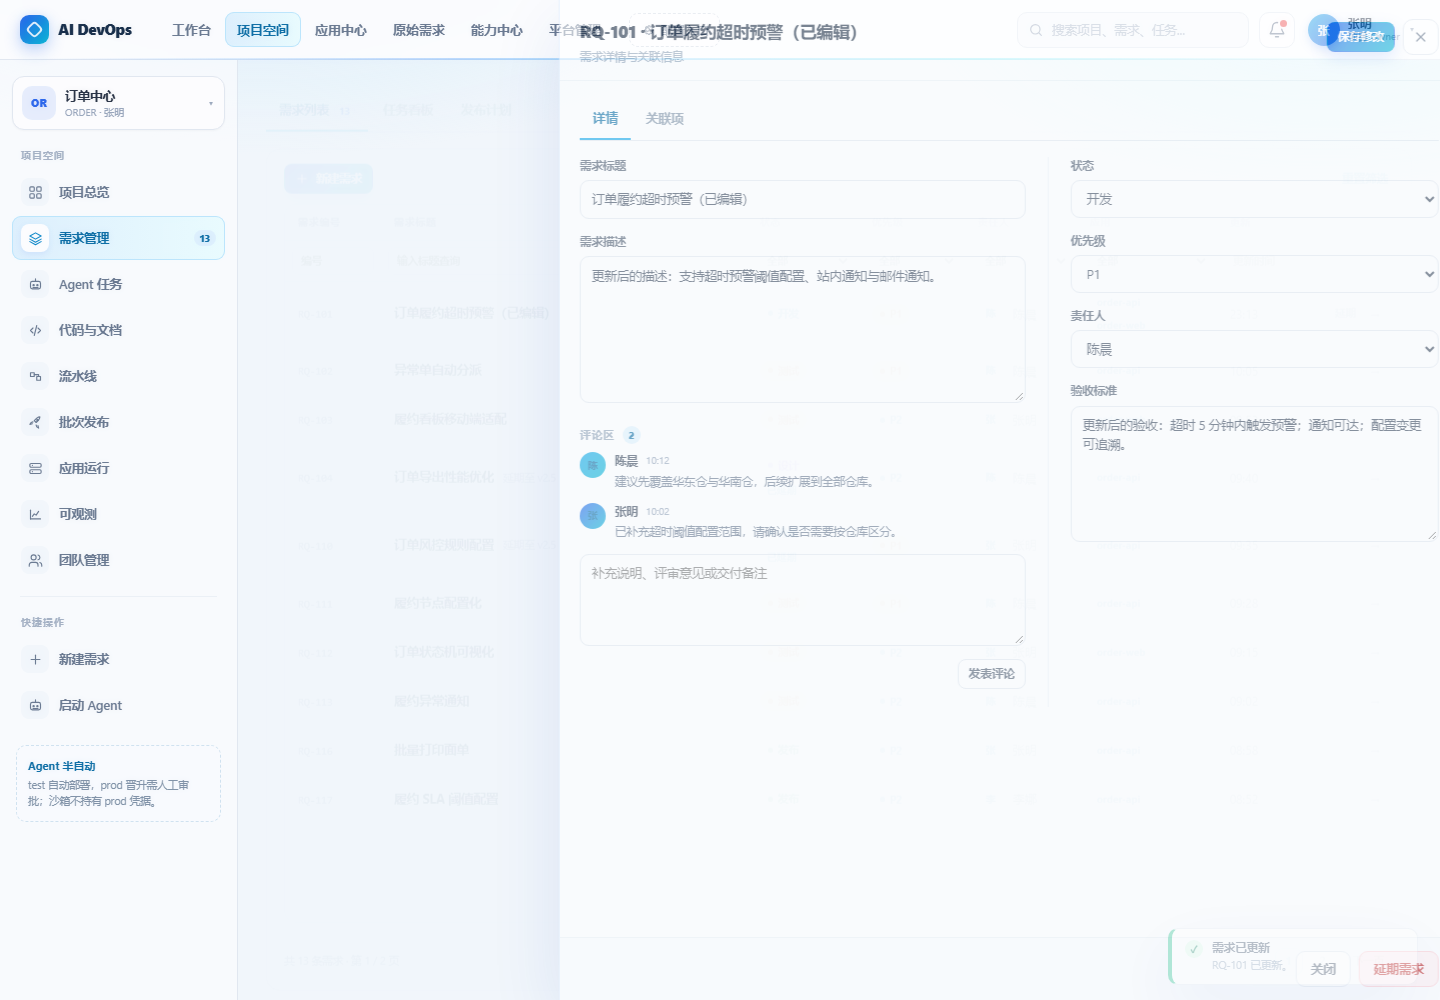
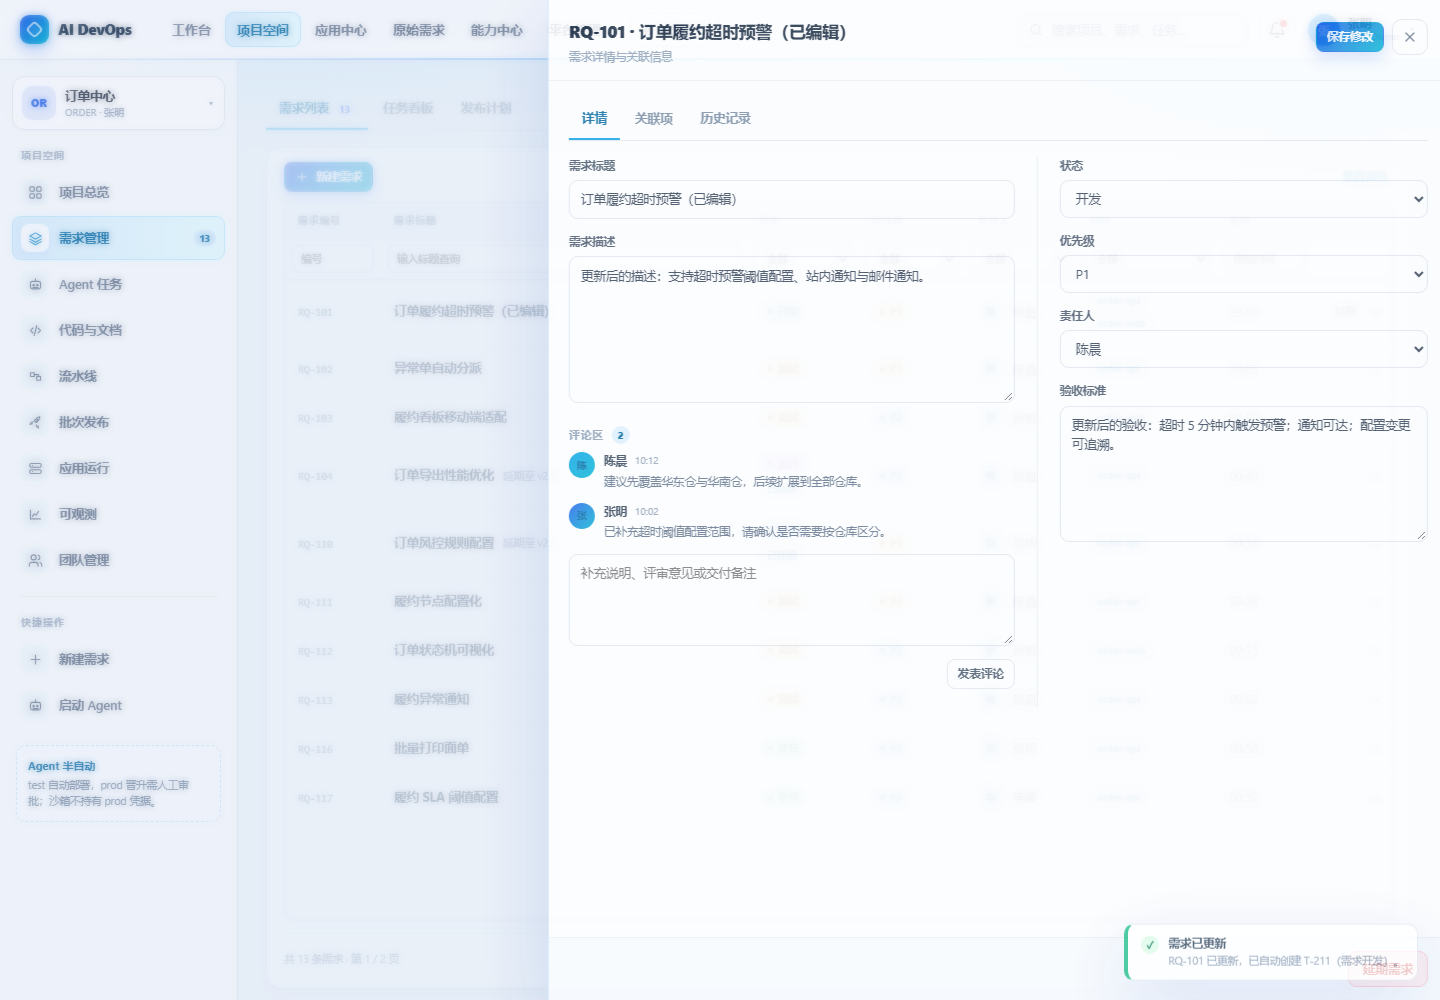
feat: ai devops平台原型设计

diff --git a/prototype/app.js b/prototype/app.js
@@ -234,6 +234,41 @@
     { id: 'C-203', requirementId: 'RQ-102', author: '李娜', time: '09:45', content: '异常类型需要支持人工维护，避免自动分派误判。' }
   ];
 
+  const REQUIREMENT_HISTORY = [
+    {
+      id: 'H-301', requirementId: 'RQ-101', actor: '张明', time: '10:18', action: '更新需求',
+      changes: [{ label: '优先级', before: 'P1', after: 'P0' }, { label: '验收标准', updated: true }]
+    },
+    {
+      id: 'H-302', requirementId: 'RQ-101', actor: '陈晨', time: '09:40', action: '更新需求',
+      changes: [{ label: '状态', before: '设计', after: '测试' }, { label: '责任人', before: '陈晨', after: '张明' }]
+    },
+    {
+      id: 'H-303', requirementId: 'RQ-101', actor: '张明', time: '09:12', action: '创建需求',
+      changes: [{ label: '初始状态', after: '分析' }, { label: '优先级', after: 'P1' }, { label: '关联应用', after: 'order-api、order-web' }]
+    },
+    {
+      id: 'H-304', requirementId: 'RQ-102', actor: '陈晨', time: '10:05', action: '更新需求',
+      changes: [{ label: '状态', before: '开发', after: '测试' }]
+    },
+    {
+      id: 'H-305', requirementId: 'RQ-102', actor: '陈晨', time: '09:30', action: '创建需求',
+      changes: [{ label: '初始状态', after: '分析' }, { label: '优先级', after: 'P1' }, { label: '关联应用', after: 'order-api' }]
+    },
+    {
+      id: 'H-306', requirementId: 'RQ-107', actor: '王磊', time: '10:22', action: '更新需求',
+      changes: [{ label: '状态', before: '分析', after: '设计' }, { label: '责任人', before: '张明', after: '王磊' }]
+    },
+    {
+      id: 'H-307', requirementId: 'RQ-107', actor: '王磊', time: '09:50', action: '创建需求',
+      changes: [{ label: '初始状态', after: '分析' }, { label: '关联应用', after: 'support-bot' }]
+    },
+    {
+      id: 'H-308', requirementId: 'RQ-104', actor: '陈晨', time: '09:40', action: '更新需求',
+      changes: [{ label: '状态', before: '分析', after: '设计' }, { label: '优先级', before: 'P1', after: 'P2' }]
+    }
+  ];
+
   const TASKS = [
     {
       id: 'T-201', title: '需求分析 · 订单履约超时预警', agent: '需求分析', type: '需求分析', projectId: 'p-order', requirementId: 'RQ-101', status: '待确认', progress: 100, started: '10:02', duration: '3m 12s', tokens: '12.4k', steps: 8, updated: '10:05',
@@ -899,6 +934,7 @@
     toastSeq: 0,
     auditSeq: 1100,
     commentSeq: 203,
+    historySeq: 308,
     reqSeq: 120,
     taskSeq: 210,
     pipelineSeq: 8830,
@@ -1478,14 +1514,57 @@
     </div>`;
   }
 
+  const REQUIREMENT_STATUS_TASKS = {
+    分析: { agent: '需求分析', type: '需求分析' },
+    设计: { agent: '方案设计', type: '方案设计' },
+    开发: { agent: 'Coding', type: '需求开发' },
+    测试: { agent: '测试生成', type: '测试生成' },
+    发布: { agent: '发布审批', type: '发布审批' }
+  };
+
+  function taskOwner(task) {
+    const requirement = task.requirementId ? requirementById(task.requirementId) : null;
+    if (requirement?.owner) return requirement.owner;
+    if (task.owner) return task.owner;
+    return projectById(task.projectId)?.owner || '—';
+  }
+
+  function createTaskFromRequirement(req, status) {
+    const mapping = REQUIREMENT_STATUS_TASKS[status];
+    if (!mapping) return null;
+    const time = nowTime();
+    const task = {
+      id: `T-${++state.taskSeq}`,
+      title: `${mapping.type} · ${req.title}`,
+      agent: mapping.agent,
+      type: mapping.type,
+      projectId: req.projectId,
+      requirementId: req.id,
+      owner: req.owner,
+      status: '排队中',
+      progress: 0,
+      started: '—',
+      duration: '—',
+      tokens: '0',
+      steps: 0,
+      updated: time,
+      summary: `需求 ${req.id} 状态变更为「${status}」，系统自动创建${mapping.type}任务，等待 Agent worker。`,
+      tools: [],
+      logs: `[${time}] task created by requirement status change\n[${time}] requirement ${req.id} → ${status}\n[${time}] waiting for agent worker`,
+      diff: null
+    };
+    TASKS.unshift(task);
+    req.taskId = task.id;
+    audit('自动创建 Agent 任务', task.id, '成功', { agent: mapping.agent, projectId: req.projectId, requirementId: req.id, trigger: `需求状态 → ${status}` });
+    return task;
+  }
+
   function taskBoardCard(task) {
-    const tone = task.status === '失败' || task.status === '已中止' ? 'danger' : task.status === '成功' ? 'soft' : ['待确认', '待审批', '待修改'].includes(task.status) ? 'warn' : '';
     return `<article class="kanban-card task-card" data-action="open-task-page" data-id="${task.id}" data-from="board" tabindex="0" role="button">
       <div class="task-card-top"><span class="task-type">${icon('bot', 11)} ${esc(task.type || task.agent)}</span>${pill(task.status)}</div>
       <b>${esc(task.title)}</b>
       <div class="task-card-agent">${icon('bot', 11)} ${esc(task.agent)}${task.requirementId ? ` · ${esc(task.requirementId)}` : ''}</div>
-      <div class="progress-label" style="margin-top:9px;"><span class="muted" style="font-size:9.5px;">进度</span><span>${task.progress}%</span></div>
-      <div style="margin-top:5px;">${progress(task.progress, tone)}</div>
+      <div class="task-card-owner">${icon('users', 11)}<span>责任人 ${esc(taskOwner(task))}</span></div>
       <div class="task-card-foot"><span>${esc(task.updated)}</span><span>${task.steps} steps · ${esc(task.tokens)} tokens</span></div>
     </article>`;
   }
@@ -1626,11 +1705,6 @@
         </div>
         <div class="task-head-actions">${headActions}</div>
       </header>
-      <div class="task-progress-strip">
-        <div class="task-progress-label"><span>执行进度</span><b>${task.progress}%</b></div>
-        <div class="task-progress-track"><span style="width:${pct(task.progress)}%"></span></div>
-        <span class="task-progress-note">${task.status === '运行中' ? 'Agent 正在执行' : esc(task.status)}</span>
-      </div>
       <div class="task-page-body">
         ${task._files.length ? `<details class="task-files-panel" open>
           <summary><span class="task-files-title">${icon('folder', 14)} 工作区文件</span><span class="tag">${task._files.length} 个</span><span class="muted">${task._files.filter((file) => file.status).length} 个变更</span><span class="task-files-hint">点击文件查看 Diff</span></summary>
@@ -2612,6 +2686,60 @@
       .sort((a, b) => String(b.time).localeCompare(String(a.time)));
   }
 
+  function requirementHistory(reqId) {
+    return REQUIREMENT_HISTORY.filter((entry) => entry.requirementId === reqId);
+  }
+
+  function addRequirementHistory(req, action, changes, actor = '张明') {
+    const entry = { id: `H-${++state.historySeq}`, requirementId: req.id, actor, time: nowTime(), action, changes };
+    REQUIREMENT_HISTORY.unshift(entry);
+    return entry;
+  }
+
+  function requirementEditChanges(before, after) {
+    const fields = [
+      { key: 'title', label: '标题' },
+      { key: 'status', label: '状态' },
+      { key: 'priority', label: '优先级' },
+      { key: 'owner', label: '责任人' },
+      { key: 'desc', label: '需求描述', updatedOnly: true },
+      { key: 'acceptance', label: '验收标准', updatedOnly: true }
+    ];
+    return fields
+      .filter((field) => before[field.key] !== after[field.key])
+      .map((field) => field.updatedOnly
+        ? { label: field.label, updated: true }
+        : { label: field.label, before: before[field.key], after: after[field.key] });
+  }
+
+  function historyText(value) {
+    const text = String(value ?? '');
+    return text.length > 60 ? `${text.slice(0, 60)}…` : text;
+  }
+
+  function renderRequirementHistory(reqId) {
+    const history = requirementHistory(reqId);
+    if (!history.length) return '<div class="empty-table">暂无变更记录</div>';
+    return `<div class="req-history-timeline">${history.map((entry, index) => {
+      const user = USERS.find((item) => item.name === entry.actor);
+      return `<div class="req-history-entry ${index === 0 ? 'latest' : ''}">
+        <div class="req-history-time">${esc(entry.time)}</div>
+        <div class="req-history-rail"><span class="req-history-dot"></span></div>
+        <div class="req-history-card">
+          <div class="req-history-head">${avatar(entry.actor, user?.color || '#2563eb', true)}<b>${esc(entry.actor)}</b><span class="req-history-action">${esc(entry.action)}</span></div>
+          <div class="req-history-changes">${(entry.changes || []).map((change) => {
+            const value = change.updated
+              ? '<span class="tag">已更新</span>'
+              : change.before
+                ? `<span class="req-history-before">${esc(historyText(change.before))}</span><span class="req-history-arrow">→</span><span class="req-history-after">${esc(historyText(change.after))}</span>`
+                : `<span class="req-history-after">${esc(historyText(change.after))}</span>`;
+            return `<div class="req-history-change"><span class="req-history-label">${esc(change.label)}</span>${value}</div>`;
+          }).join('')}</div>
+        </div>
+      </div>`;
+    }).join('')}</div>`;
+  }
+
   function renderRequirementComments(reqId) {
     const comments = requirementComments(reqId);
     if (!comments.length) return '<div class="empty-table">暂无评论，来补充第一条说明。</div>';
@@ -2644,6 +2772,7 @@
       <div class="tabs req-detail-tabs">
         <button class="tab active" type="button" data-action="req-detail-tab" data-tab="detail">详情</button>
         <button class="tab" type="button" data-action="req-detail-tab" data-tab="relations">关联项</button>
+        <button class="tab" type="button" data-action="req-detail-tab" data-tab="history">历史记录</button>
       </div>
       <div class="req-detail-pane" data-pane="detail">
         <div class="req-detail-grid">
@@ -2679,8 +2808,8 @@
             <div class="drawer-section-title">关联应用</div>
             <div class="relation-list">${appRelations.length ? appRelations.map((app) => `<button class="relation-item" type="button" data-action="open-app" data-id="${app.id}">
               <span class="relation-icon">${icon('cube', 15)}</span>
-              <span class="relation-copy"><b>${esc(app.name)}</b><small>prod ${esc(app.envs.prod.version)} · test ${esc(app.envs.test.version)}</small></span>
-              <span class="tag">${esc(app.envs.prod.status)}</span>
+              <span class="relation-copy"><b>${esc(app.name)}</b><small>prod ${esc(app.envs.prod?.version || '—')} · test ${esc(app.envs.test?.version || '—')}</small></span>
+              <span class="tag">${esc(app.envs.prod?.status || '仅 test')}</span>
             </button>`).join('') : '<div class="empty-table">暂无关联应用</div>'}</div>
           </div>
           <div class="drawer-section">
@@ -2690,8 +2819,14 @@
         </div>
         ${req.deferredTo ? `<div class="drawer-section"><div class="drawer-section-title">延期目标</div><div class="release-note"><b>已延期</b><br>目标：${esc(iterationById(req.deferredTo)?.name || 'backlog')}；不计入当前迭代发布。</div></div>` : ''}
       </div>
+      <div class="req-detail-pane" data-pane="history" hidden>
+        <div class="drawer-section">
+          <div class="drawer-section-title">变更记录</div>
+          ${renderRequirementHistory(req.id)}
+        </div>
+      </div>
     `;
-    const footer = `<button class="btn btn-outline" type="button" data-action="close-overlay">关闭</button>${req.ready ? `<button class="btn btn-primary" type="button" data-action="goto-releases">查看发布计划</button>` : !req.deferredTo ? `<button class="btn btn-danger" type="button" data-action="defer-req" data-id="${req.id}">延期需求</button>` : ''}`;
+    const footer = !req.ready && !req.deferredTo ? `<button class="btn btn-danger" type="button" data-action="defer-req" data-id="${req.id}">延期需求</button>` : '';
     const headerActions = `<button class="btn btn-primary btn-sm" type="button" data-action="save-req-edit" data-id="${req.id}">保存修改</button>`;
     openPanel({ title: `${req.id} · ${req.title}`, sub: '需求详情与关联信息', body, footer, extraWide: true, headerActions });
   }
@@ -2720,14 +2855,23 @@
       toast('没有需要保存的修改。', 'info');
       return;
     }
+    const statusChanged = status !== before.status;
     Object.assign(req, after, {
       updated: nowTime(),
       ready: !req.deferredTo && ['测试', '发布'].includes(status)
     });
+    const autoTask = statusChanged ? createTaskFromRequirement(req, status) : null;
+    const changes = requirementEditChanges(before, after);
+    if (autoTask) changes.push({ label: '自动任务', after: `${autoTask.id} · ${autoTask.type}` });
+    addRequirementHistory(req, '更新需求', changes);
     audit('更新需求', req.id, '成功', { before, after });
     renderMain();
     openRequirementDrawer(req.id);
-    toast(`${req.id} 已更新。`, 'success', '需求已更新');
+    toast(
+      autoTask ? `${req.id} 已更新，已自动创建 ${autoTask.id}（${autoTask.type}）。` : `${req.id} 已更新。`,
+      'success',
+      '需求已更新'
+    );
   }
 
   function switchRequirementDetailTab(tab) {
@@ -3853,6 +3997,11 @@
       owner: '张明', apps: [], updated: nowTime(), ready: false, desc: desc || '待补充需求描述。', acceptance, taskId: null
     };
     REQUIREMENTS.unshift(req);
+    addRequirementHistory(req, '创建需求', [
+      { label: '初始状态', after: '分析' },
+      { label: '优先级', after: priority },
+      { label: '所属迭代', after: iteration.name }
+    ]);
     audit('创建需求', req.id, '成功', { after: { title, iterationId, priority } });
     closeOverlay();
     state.projectId = projectId;
@@ -3874,6 +4023,10 @@
     req.ready = false;
     req.deferredTo = target;
     req.updated = nowTime();
+    addRequirementHistory(req, '延期需求', [
+      { label: '延期目标', after: target === 'backlog' ? 'Backlog' : (iterationById(target)?.name || target) },
+      ...(reason ? [{ label: '延期原因', after: reason }] : [])
+    ]);
     audit('延期需求', req.id, '成功', { reason, target });
     closeOverlay();
     renderMain();

diff --git a/prototype/styles.css b/prototype/styles.css
@@ -1144,6 +1144,29 @@ tr.row-click { cursor: pointer; }
 .comment-head span { font-size: 10px; color: #94a3b8; }
 .comment-copy p { margin-top: 3px; font-size: 11.5px; line-height: 1.6; color: #64748b; white-space: pre-wrap; overflow-wrap: anywhere; }
 .comment-compose { margin-top: 12px; }
+.req-history-timeline { display: flex; flex-direction: column; }
+.req-history-entry { display: grid; grid-template-columns: 48px 20px minmax(0, 1fr); column-gap: 8px; padding-bottom: 12px; }
+.req-history-entry:last-child { padding-bottom: 0; }
+.req-history-time { padding-top: 11px; text-align: right; font-family: var(--mono); font-size: 9.5px; color: #94a3b8; }
+.req-history-rail { position: relative; display: flex; justify-content: center; }
+.req-history-rail::before { content: ""; position: absolute; top: 0; bottom: -12px; width: 1px; background: #e2e8f0; }
+.req-history-entry:first-child .req-history-rail::before { top: 17px; }
+.req-history-entry:last-child .req-history-rail::before { bottom: calc(100% - 17px); }
+.req-history-entry:first-child:last-child .req-history-rail::before { display: none; }
+.req-history-dot { position: relative; z-index: 1; width: 9px; height: 9px; margin-top: 13px; border-radius: 50%; background: #93c5fd; border: 2px solid #fff; box-shadow: 0 0 0 1px #bfdbfe; }
+.req-history-entry.latest .req-history-dot { background: #0ea5e9; box-shadow: 0 0 0 3px rgba(14, 165, 233, .14); }
+.req-history-card { min-width: 0; padding: 10px 14px 12px; border: 1px solid var(--border); border-radius: 12px; background: #fff; }
+.req-history-entry.latest .req-history-card { border-color: #bae6fd; background: #fbfdff; }
+.req-history-head { display: flex; align-items: center; gap: 7px; flex-wrap: wrap; }
+.req-history-head b { font-size: 12px; color: #334155; }
+.req-history-action { padding: 1px 7px; border-radius: 999px; background: #f1f9fe; color: #0369a1; font-size: 9.5px; font-weight: 750; }
+.req-history-changes { display: flex; flex-direction: column; gap: 4px; margin-top: 7px; }
+.req-history-change { display: flex; align-items: baseline; gap: 7px; flex-wrap: wrap; font-size: 10.5px; color: #64748b; }
+.req-history-label { flex: 0 0 68px; color: #8da0b5; }
+.req-history-before { color: #94a3b8; overflow-wrap: anywhere; }
+.req-history-arrow { color: #b0bdcb; }
+.req-history-after { color: #334155; font-weight: 650; overflow-wrap: anywhere; }
+.req-history-change .tag { font-size: 9px; padding: 1px 6px; }
 .meta-grid { display: grid; grid-template-columns: 1fr 1fr; gap: 11px 14px; }
 .meta-item { min-width: 0; }
 .meta-label { font-size: 10px; color: #94a3b8; }
@@ -1414,8 +1437,9 @@ tr.row-click { cursor: pointer; }
 .task-card-top .pill { padding: 2px 6px; font-size: 9px; }
 .task-type { display: inline-flex; align-items: center; gap: 4px; padding: 2px 6px; border-radius: 6px; background: #f1f9fe; color: #0369a1; font-size: 9.5px; font-weight: 750; }
 .task-card-agent { display: flex; align-items: center; gap: 4px; margin-top: 6px; font-size: 10px; color: #8da0b5; }
-.task-card .progress-label { gap: 6px; }
-.task-card-foot { display: flex; align-items: center; justify-content: space-between; gap: 6px; margin-top: 8px; font-size: 9px; color: #a1b0c2; }
+.task-card-owner { display: flex; align-items: center; gap: 4px; margin-top: 4px; font-size: 10px; color: #64748b; }
+.task-card-owner .icon { color: #94a3b8; }
+.task-card-foot { display: flex; align-items: center; justify-content: space-between; gap: 6px; margin-top: 10px; font-size: 9px; color: #a1b0c2; }
 
 /* ---------------- Agent task detail ---------------- */
 
@@ -1432,12 +1456,6 @@ tr.row-click { cursor: pointer; }
 .task-page-meta { display: flex; align-items: center; gap: 14px; flex-wrap: wrap; margin-top: 7px; font-size: 11px; color: #8da0b5; }
 .task-page-meta span { display: inline-flex; align-items: center; gap: 4px; }
 .task-head-actions { display: flex; align-items: center; gap: 8px; flex: 0 0 auto; padding-top: 18px; }
-.task-progress-strip { flex: 0 0 auto; display: flex; align-items: center; gap: 12px; padding: 10px 28px; background: #fbfdff; border-bottom: 1px solid #eef4f8; }
-.task-progress-label { display: flex; align-items: center; gap: 6px; white-space: nowrap; font-size: 10.5px; color: #8da0b5; }
-.task-progress-label b { color: #334155; }
-.task-progress-track { flex: 1; height: 5px; border-radius: 999px; background: #eef4f8; overflow: hidden; }
-.task-progress-track span { display: block; height: 100%; border-radius: 999px; background: var(--gradient); transition: width .4s ease; }
-.task-progress-note { white-space: nowrap; font-size: 10.5px; color: #8da0b5; }
 .task-page-body { position: relative; flex: 1; min-height: 0; display: flex; flex-direction: column; padding: 14px 28px 0; }
 .task-files-panel { flex: 0 0 auto; margin-bottom: 10px; border: 1px solid var(--border); border-radius: 12px; background: #fff; overflow: hidden; }
 .task-files-panel summary { display: flex; align-items: center; gap: 8px; padding: 10px 12px; list-style: none; cursor: pointer; font-size: 11.5px; color: #475569; }
@@ -1560,7 +1578,7 @@ tr.row-click { cursor: pointer; }
   .req-detail-left { padding-right: 0; border-right: 0; border-bottom: 1px solid #eef4f8; padding-bottom: 16px; }
   .req-relation-grid { grid-template-columns: 1fr; }
   .main.main-task { height: calc(100vh - 60px); padding: 14px 12px; }
-  .task-page-head, .task-progress-strip, .task-page-body, .task-composer { padding-left: 14px; padding-right: 14px; }
+  .task-page-head, .task-page-body, .task-composer { padding-left: 14px; padding-right: 14px; }
   .task-head-actions { padding-top: 0; }
   .task-files-hint { display: none; }
   .task-page-title { font-size: 18px; }

diff --git a/prototype/README.md b/prototype/README.md
@@ -39,8 +39,8 @@ python -m http.server 8787
 
 1. **新建项目**：项目空间 → 项目总览右上角「新建项目」，或切换项目弹窗底部。填写名称与标识后自动创建首个迭代并切换过去。
 2. **团队管理**：项目空间 → 团队管理 → 固定高度成员列表（5 条/页）/ 添加成员 / 行内调整角色 / 移除成员；查看角色权限说明与最近成员变更。
-3. **需求管理**：项目空间 → 需求管理 → 列表左上角新建需求、铺满页面高度分页（10 条/页）；按编号、标题、状态、优先级、责任人、应用、更新逐字段筛选；状态为分析 / 设计 / 开发 / 测试 / 发布，支持延期；需求详情分「详情 / 关联项」两个 Tab，详情左右分栏（保存修改在右上角），左侧编辑标题/描述并发表评论，右侧修改状态、责任人、优先级、验收标准，关联项展示关联应用与关联任务。
-4. **任务看板**：需求管理 → 任务看板 → 按执行状态查看 Agent 任务 → 点击任务在任务看板内切换为执行详情（保留侧栏与 Tab）；查看流式思考、工具调用、工作区文件与 Diff，底部可聊天追问、中断任务、重新执行，并支持通过 / 要求修改。
+3. **需求管理**：项目空间 → 需求管理 → 列表左上角新建需求、铺满页面高度分页（10 条/页）；按编号、标题、状态、优先级、责任人、应用、更新逐字段筛选；状态为分析 / 设计 / 开发 / 测试 / 发布，支持延期；需求详情分「详情 / 关联项 / 历史记录」三个 Tab，详情左右分栏（保存修改在右上角），左侧编辑标题/描述并发表评论，右侧修改状态、责任人、优先级、验收标准，关联项展示关联应用与关联任务，历史记录以时间轴按操作者、时间与操作内容展示每次字段变更、状态流转、自动任务与延期操作。
+4. **任务看板**：需求管理 → 任务看板 → 按执行状态查看 Agent 任务（卡片展示对应责任人）→ 点击任务在任务看板内切换为执行详情（保留侧栏与 Tab）；在需求详情中变更状态会自动创建对应类型的 Agent 任务（分析 / 设计 / 开发 / 测试 / 发布），进入队列并关联需求责任人；查看流式思考、工具调用、工作区文件与 Diff，底部可聊天追问、中断任务、重新执行，并支持通过 / 要求修改。
 5. **批次发布**：批次发布 → 审批通过 → 开始发布 → order-worker 失败、order-admin 被阻断 → 重试失败项 / 逐项回滚。
 6. **能力配置**：能力中心 → 切换 REST / MCP 开关 → MCP 测试 → dry-run 响应。
 7. **顶部配置**：⚙ 配置入口 → 隐藏/显示、上移/下移入口。
@@ -54,7 +54,7 @@ python -m http.server 8787
 静态数据集中在 `app.js` 顶部：
 
 - 3 个初始项目、3 个迭代、20 条需求（可新建项目，自动生成首个迭代）
-- 9 个 Agent 任务（含运行中执行流、文件树与聊天记录）
+- 9 个初始 Agent 任务（含运行中执行流、文件树与聊天记录；需求状态变更时自动追加任务）
 - 6 个应用（test / prod）
 - 6 条流水线、7 个能力、4 条告警
 - 10 个用户、项目成员与角色（成员列表 5 条/页）、7 个功能开关、审计事件
